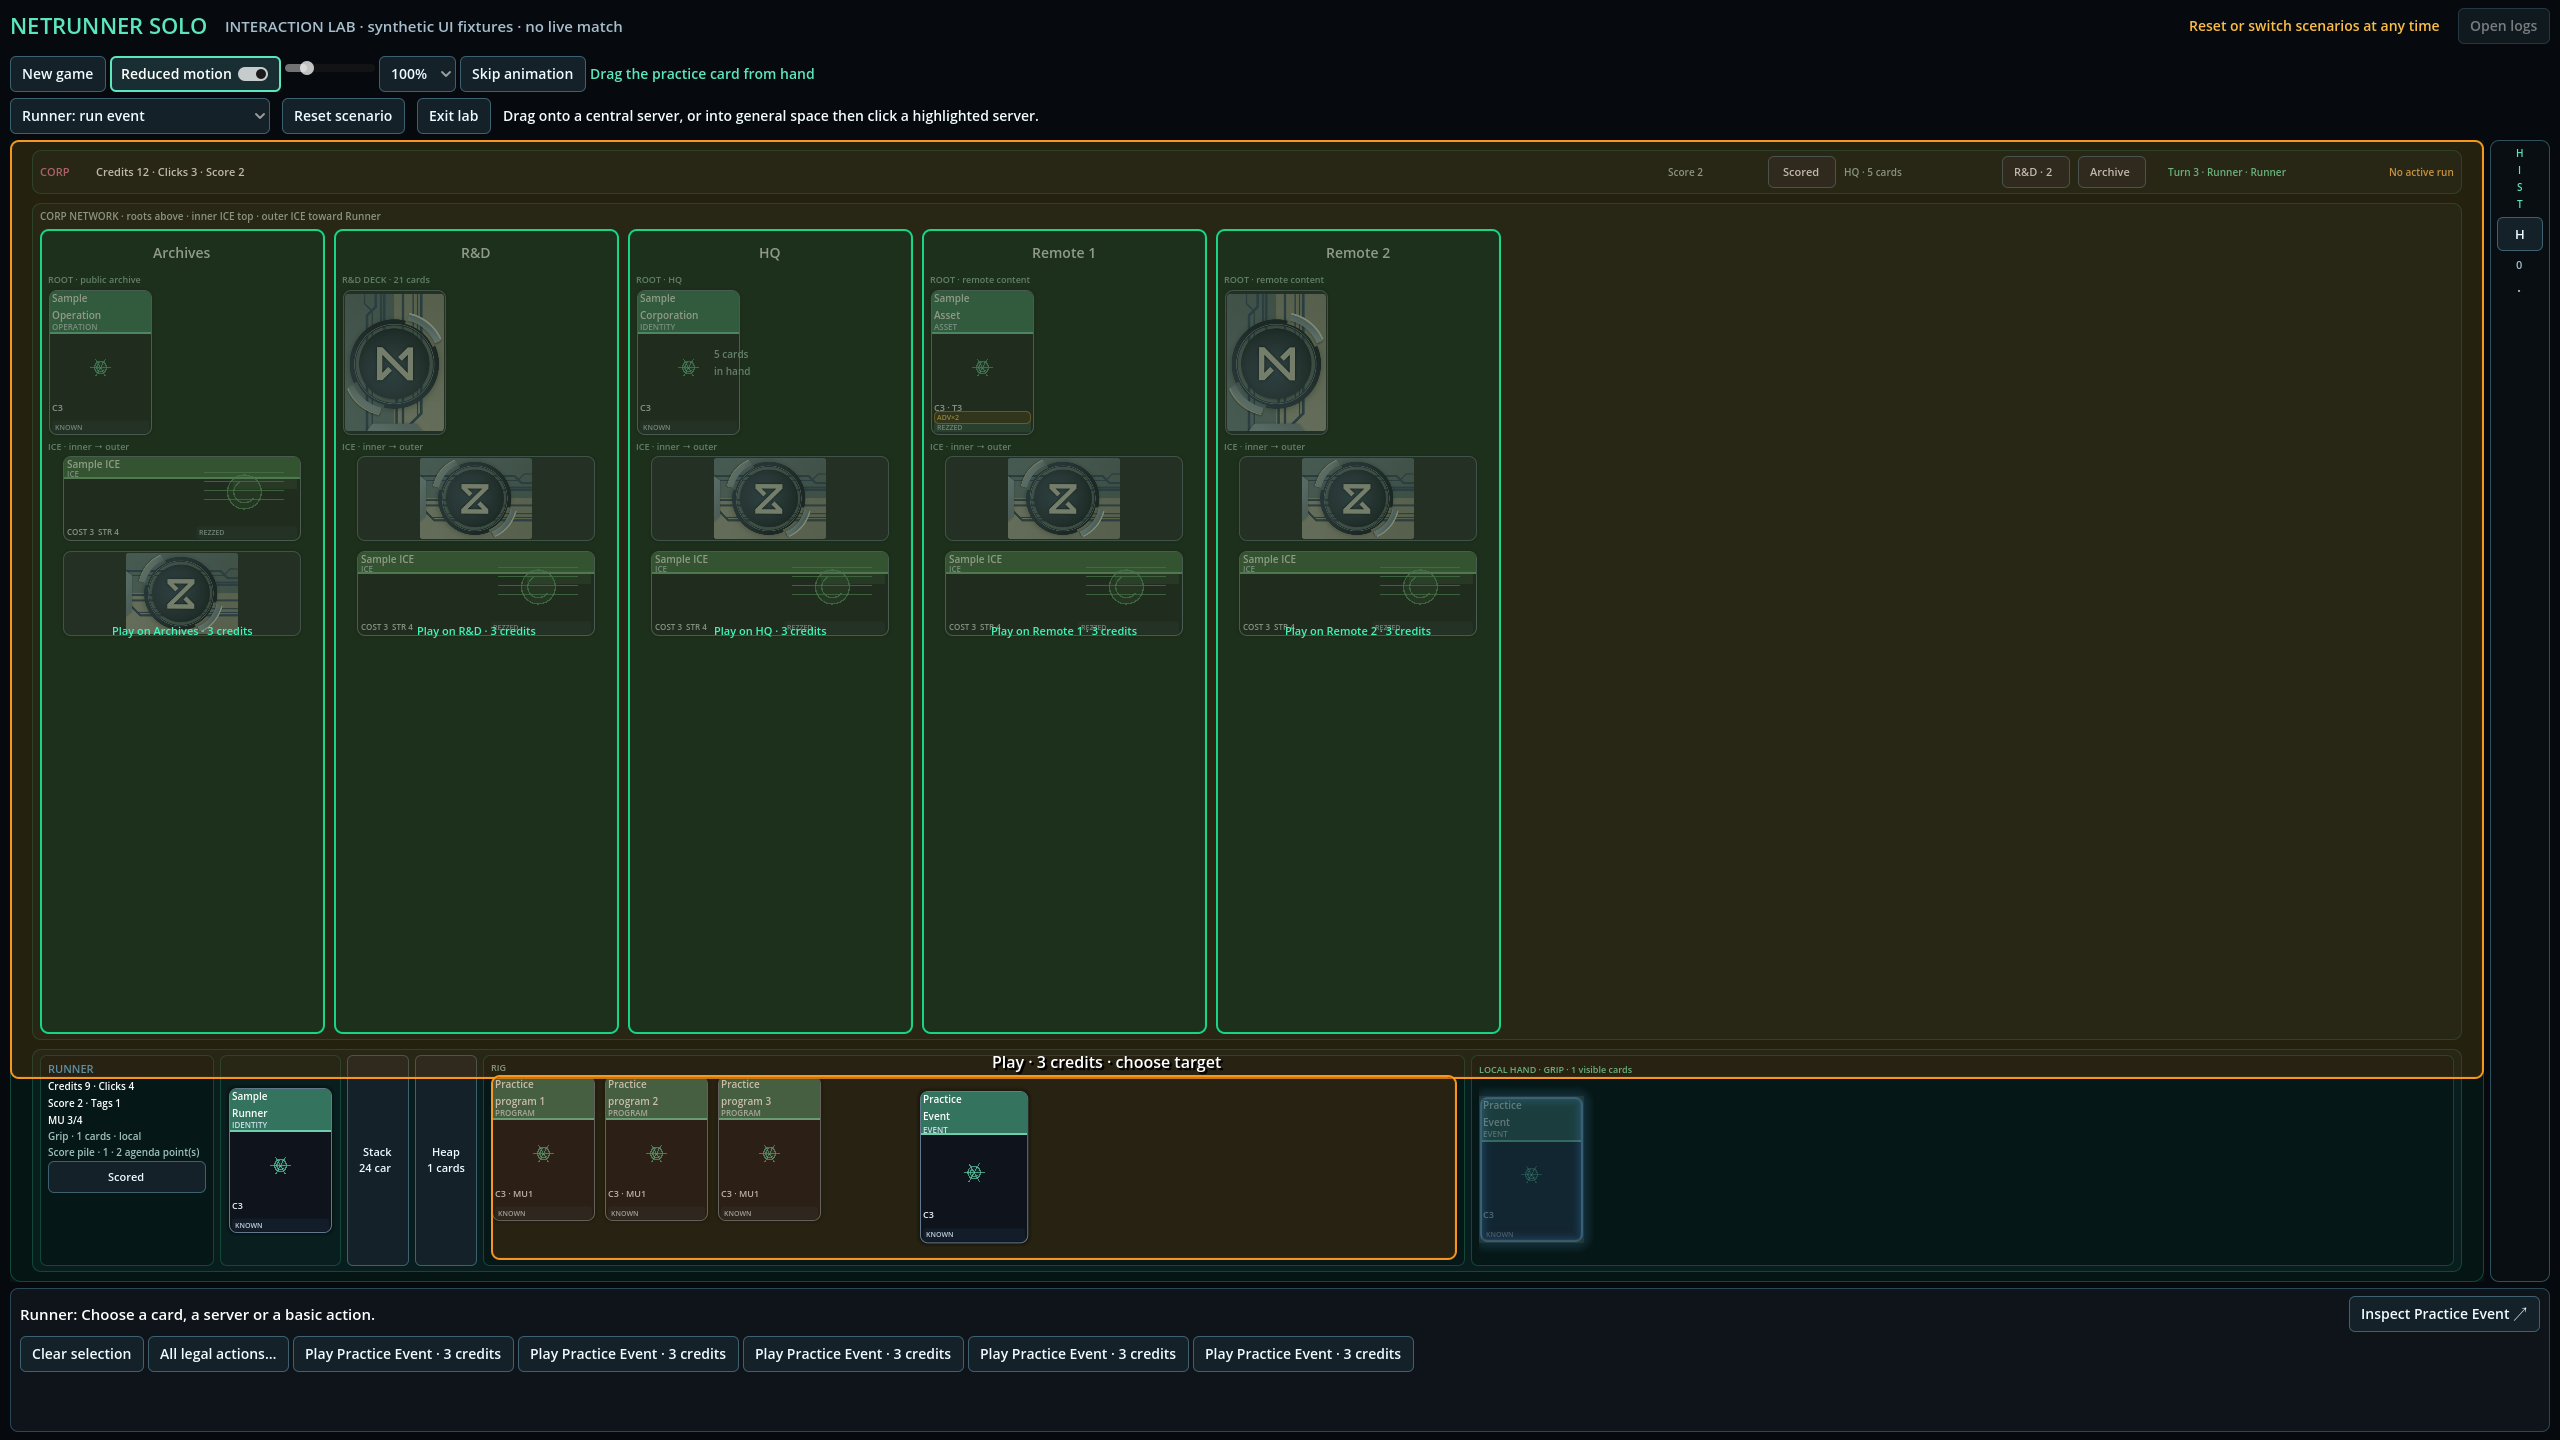
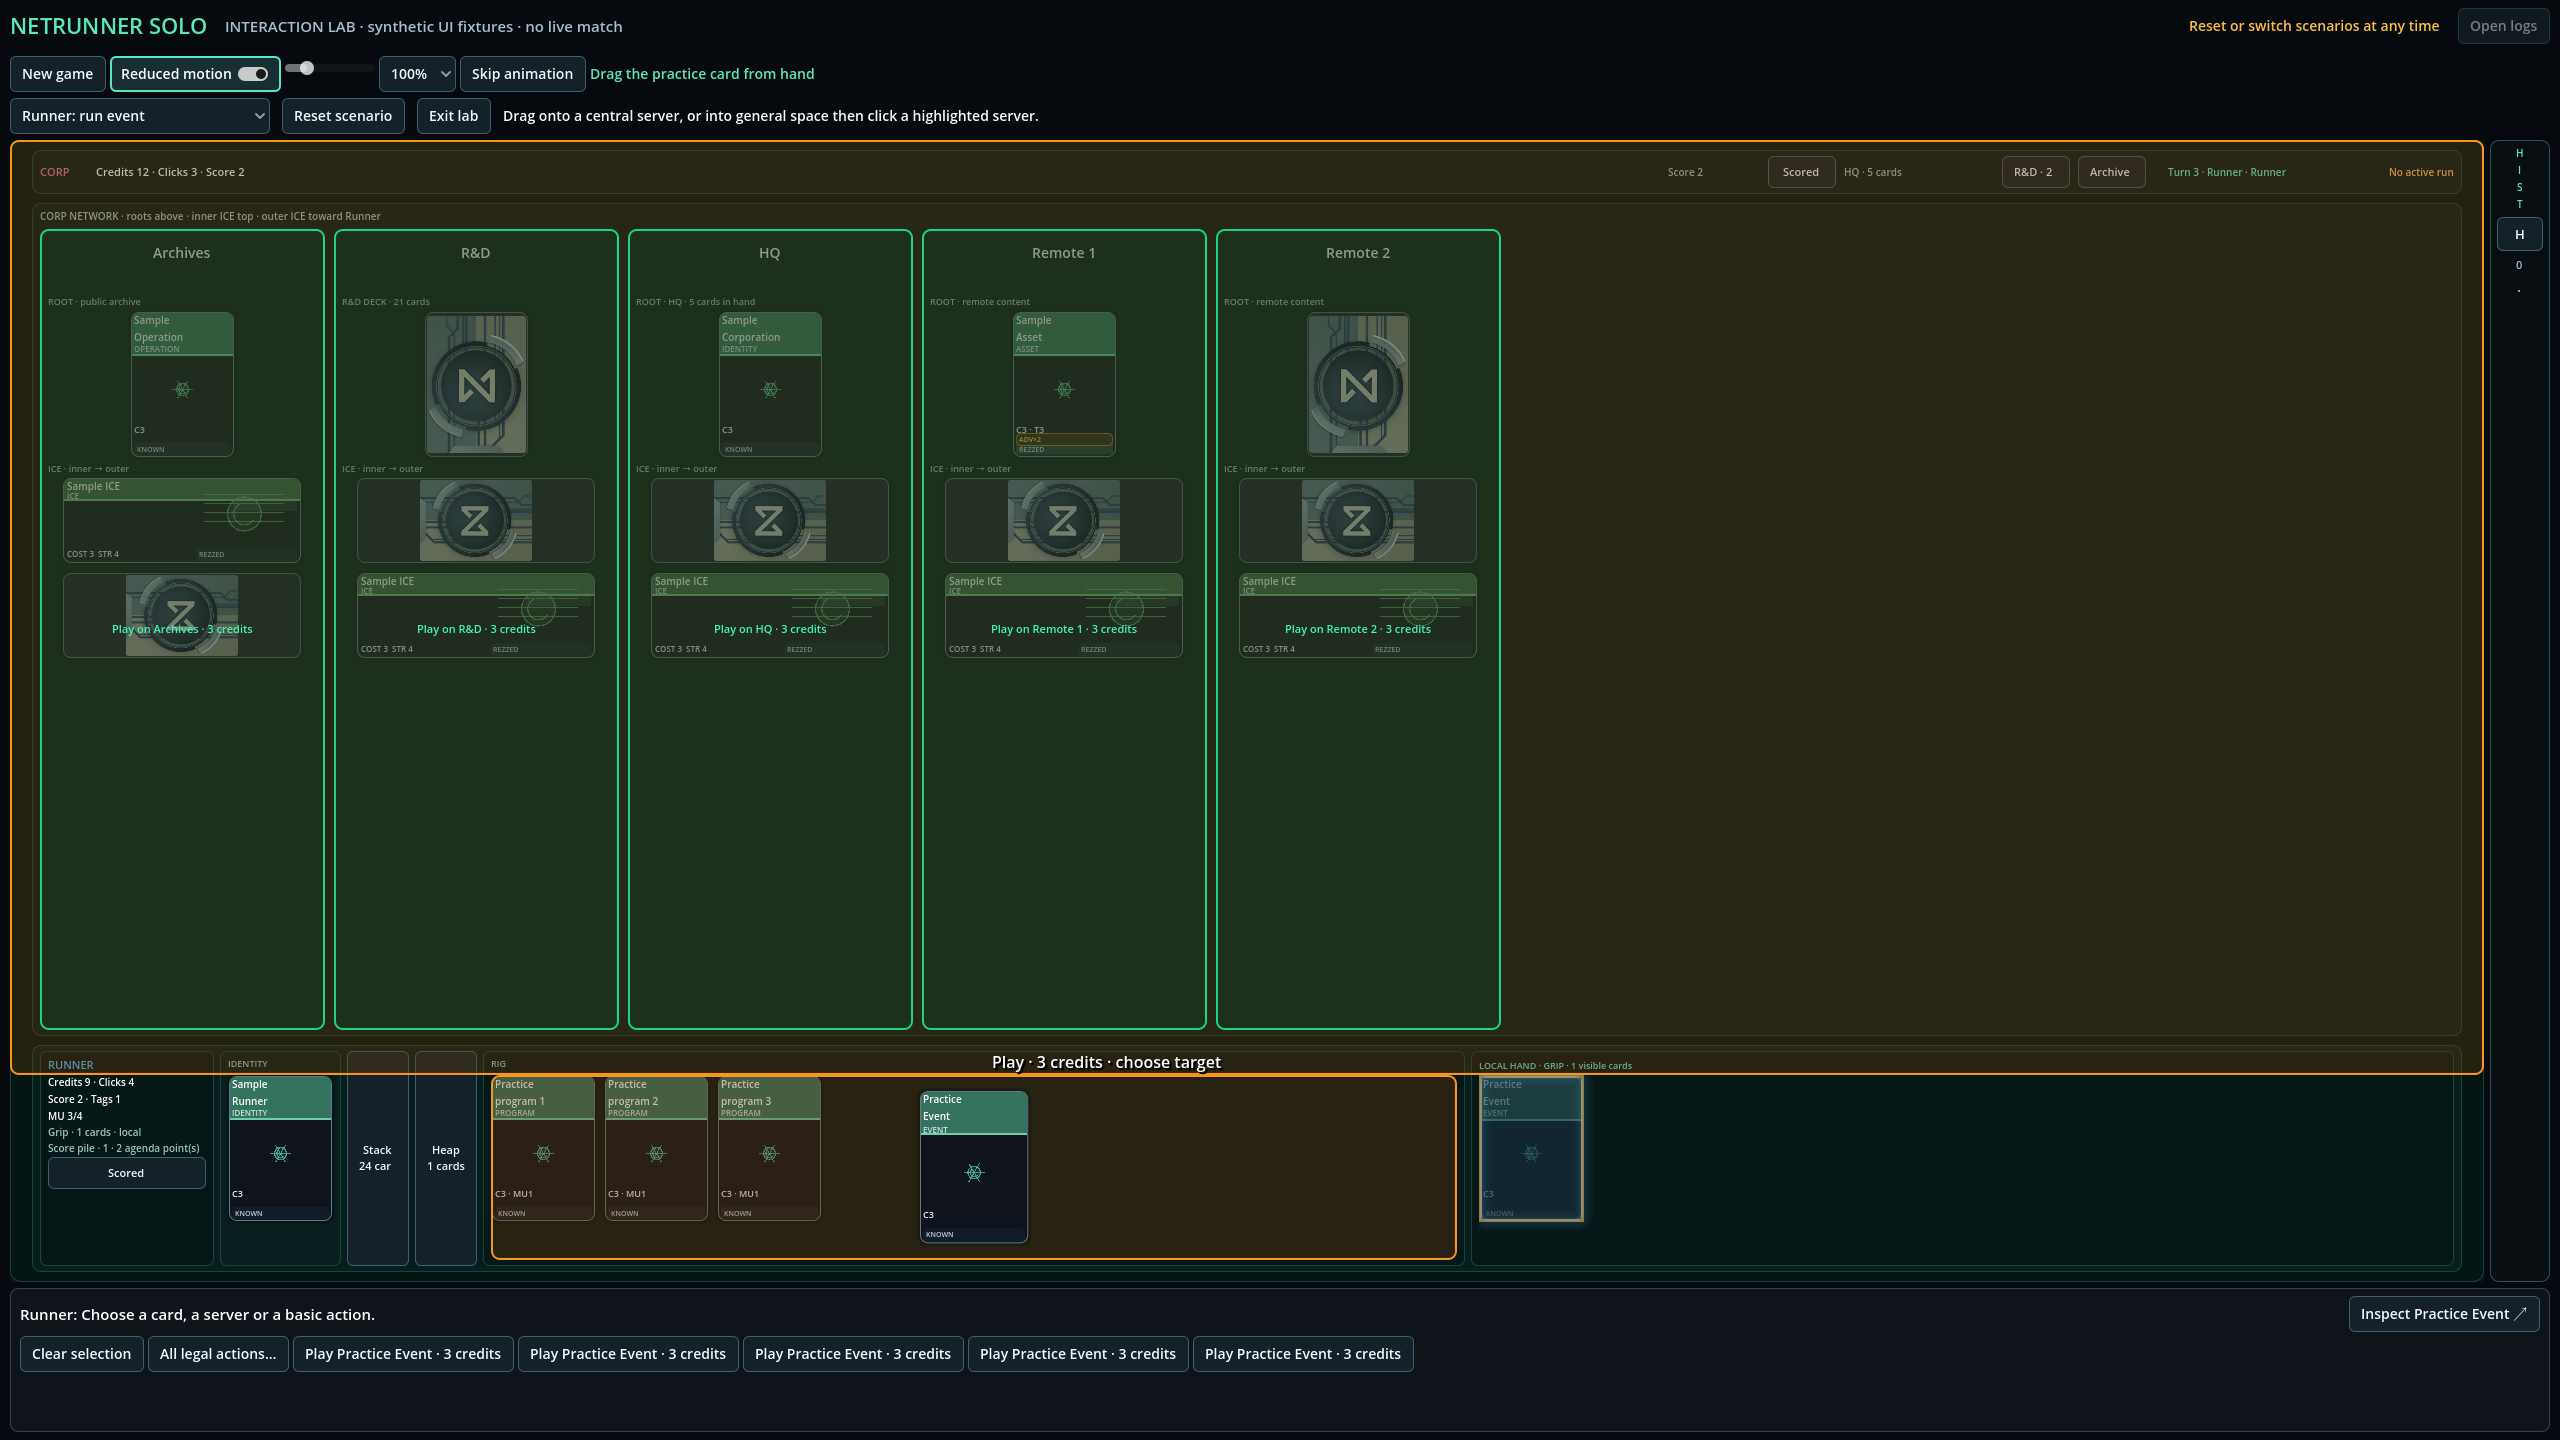
fix: align Runner card rows and Corp server cards

diff --git a/src/Netrunner.Godot/scenes/GameTableControl.cs b/src/Netrunner.Godot/scenes/GameTableControl.cs
@@ -55,7 +55,7 @@ public partial class GameTableControl : Control
 	private Label _corpHandCaption = null!;
 	private Label _runnerHandCaption = null!;
 	private Label _localHandCaption = null!;
-	private PanelContainer _runnerIdentitySlot = null!;
+	private MarginContainer _runnerIdentitySlot = null!;
 	private Label _tableHint = null!;
 	private Label _corpScoreLabel = null!;
 	private Label _runnerScoreLabel = null!;
@@ -376,7 +376,7 @@ public partial class GameTableControl : Control
 		_corpHandCaption = GetNodeOrNull<Label>("Surface/Margins/Layout/CorpStrip/Content/HQ")!;
[2 lines of base64/hex data omitted]
-		_runnerIdentitySlot = GetNodeOrNull<PanelContainer>("Surface/Margins/Layout/RunnerField/Content/Identity")!;
[1 lines of base64/hex data omitted]
 		_tableHint = GetNodeOrNull<Label>("Surface/Margins/Layout/Hint")!;
 		_corpScoreLabel = GetNodeOrNull<Label>("Surface/Margins/Layout/CorpStrip/Content/Score")!;
[1 lines of base64/hex data omitted]
@@ -536,6 +536,12 @@ public partial class GameTableControl : Control
 		lane.Panel.CustomMinimumSize = new Vector2(_boardLayout.LaneWidth, lane.Panel.CustomMinimumSize.Y);
 		lane.RootCards.AddThemeConstantOverride("separation", -Mathf.RoundToInt(_boardLayout.RootCardOverlap));
 		lane.IceCards.AddThemeConstantOverride("separation", Mathf.RoundToInt(_boardLayout.CardSeparation));
+		// Reserve matching gutters: the scrollbar must not move ICE off the
+		// root centerline when a server gains more cards or the window shrinks.
+		ScrollContainer scroll = lane.IceCards.GetParent<ScrollContainer>();
+		StyleBox panel = scroll.GetThemeStylebox("panel");
+		panel.ContentMarginLeft = scroll.GetVScrollBar().GetCombinedMinimumSize().X
+			+ scroll.GetThemeConstant("scrollbar_h_separation");
 	}
 
 	private void RefreshEditorPreview()
@@ -675,8 +681,9 @@ public partial class GameTableControl : Control
 				&& string.Equals(run.AttackedServerId, server.Id, StringComparison.Ordinal)
 				? $"ACTIVE RUN · {run.FocusLabel}"
 				: string.Empty;
-			lane.RunMarker.Visible = lane.RunMarker.Text.Length > 0;
-			if (lane.RunMarker.Visible && view.Run?.Encounter is { } encounter)
+			// Keep this row in every lane so entering a run never moves its cards.
+			lane.RunMarker.TooltipText = string.Empty;
+			if (lane.RunMarker.Text.Length > 0 && view.Run?.Encounter is { } encounter)
 			{
 				lane.RunMarker.Text = $"▶ {encounter.Ice?.Title ?? "Face-down ICE"} · {encounter.RemainingSubroutines} unbroken";
 				lane.RunMarker.TooltipText = $"Strength {encounter.EffectiveStrength ?? encounter.Ice?.Strength}\n"
@@ -688,7 +695,7 @@ public partial class GameTableControl : Control
 					? "ROOT · public archive"
 					: server.Kind == ServerKind.RAndD
 						? $"R&D DECK · {view.CorpDeck.Count} cards"
-							: "ROOT · HQ";
+							: $"ROOT · HQ · {view.CorpHand.Count} cards in hand";
 			lane.RootCaption.Visible = true;
 			lane.IceCaption.Visible = true;
 
@@ -699,7 +706,6 @@ public partial class GameTableControl : Control
 				server,
 				lane.RootCards,
 				server.Kind == ServerKind.Headquarters ? view.CorpIdentity : null,
-				server.Kind == ServerKind.Headquarters ? view.CorpHand.Count : null,
 				nextVisibleCards);
 			if (server.Kind == ServerKind.RAndD)
 			{
@@ -738,21 +744,12 @@ public partial class GameTableControl : Control
 		ServerViewModel server,
 		HBoxContainer rootCards,
 		CardViewModel? corpIdentity,
-		int? corpHandCount,
 		Dictionary<string, TableCardControl> nextVisibleCards)
 	{
 		int index = 0;
 		if (corpIdentity is not null)
 		{
 			EnsureCard("corp-identity", rootCards, corpIdentity, false, nextVisibleCards);
-		}
-		if (corpHandCount is { } handCount)
-		{
-			Label handLabel = MakeLabel($"{handCount} cards\nin hand", 10, MutedColor);
-			handLabel.CustomMinimumSize = new Vector2(78, 0);
-			handLabel.VerticalAlignment = VerticalAlignment.Center;
-			rootCards.AddChild(handLabel);
-			rootCards.MoveChild(handLabel, corpIdentity is not null ? 1 : 0);
 		}
 		foreach (CardViewModel? card in server.OrderedRoot)
 		{
@@ -781,10 +778,11 @@ public partial class GameTableControl : Control
 				Control stack = new()
 				{
 					CustomMinimumSize = HostedStackMinimumSize(),
+					SizeFlagsHorizontal = SizeFlags.ShrinkCenter,
 					MouseFilter = MouseFilterEnum.Ignore,
 				};
 				iceCards.AddChild(stack);
-				EnsureCard(slot, stack, card, true, nextVisibleCards);
+				EnsureCard(slot, stack, card, true, nextVisibleCards).Position = Vector2.Zero;
 				for (int index = 0; index < hosted.Length; index++)
 				{
 					TableCardControl attachment = EnsureCard(
@@ -935,7 +933,7 @@ public partial class GameTableControl : Control
 
 	private void RenderIdentity(
 		string slot,
-		PanelContainer parent,
+		Control parent,
 		CardViewModel? card,
 		bool isIce,
 		Dictionary<string, TableCardControl> nextVisibleCards)
@@ -1105,7 +1103,7 @@ public partial class GameTableControl : Control
 		CardAppearance? appearance = GD.Load<CardAppearance>(TableCardControl.DefaultAppearancePath);
 		Vector2 ice = (appearance?.IceSize ?? TableCardControl.IceCardSize) * new Vector2(1, layout.IceHeightScale);
 		Vector2 hosted = (appearance?.PortraitSize ?? TableCardControl.PortraitCardSize) * layout.HostedPortraitScale;
-		return new Vector2(layout.LaneWidth, Mathf.Max(ice.Y, hosted.Y) + layout.HostedCardOffset.Y + layout.HostedCardStep.Y);
+		return new Vector2(ice.X, Mathf.Max(ice.Y, hosted.Y) + layout.HostedCardOffset.Y + layout.HostedCardStep.Y);
 	}
 
 	private Vector2 RigSlotMinimumSize()

diff --git a/src/Netrunner.Godot/scenes/Main.CardTableSmoke.cs b/src/Netrunner.Godot/scenes/Main.CardTableSmoke.cs
@@ -199,6 +199,7 @@ public partial class Main
 					_matchHistory.SetExpanded(false);
 					await TableFrames(4);
 					AssertCentralServerPresentation(view);
+					AssertBoardCardAlignment(view);
 					await AssertHoverStable($"fixture-{size.X}-{side}");
 					Rect2 viewport = GetViewport().GetVisibleRect();
 					if (!viewport.Encloses(_tableActions.GetGlobalRect())
@@ -297,6 +298,7 @@ public partial class Main
 					};
 					RenderSnapshot(CreateSlice48Snapshot(activeRunView, activeRunView.Decision));
 					await TableFrames(3);
+					AssertBoardCardAlignment(activeRunView);
 					if (!SceneTreeContainsText(_gameTable, "▶")
 						&& !SceneTreeContainsText(_gameTable, "ACTIVE RUN")
 						&& !SceneTreeContainsText(_gameTable, "RUN ·"))
@@ -484,8 +486,41 @@ public partial class Main
 		if (_gameTable.GetServerDisplayName(hq.Id) != "HQ"
 			|| _gameTable.VisibleCards.Keys.Any(key => key.StartsWith($"slot:pile:{hq.Id}:", StringComparison.Ordinal)))
 			throw new InvalidOperationException("HQ has a remote label or decorative hand backs.");
-		if (!FindDescendants<Label>(_gameTable).Any(label => label.Text.Replace('\n', ' ') == $"{view.CorpHand.Count} cards in hand"))
+		if (!FindDescendants<Label>(_gameTable).Any(label => label.Text == $"ROOT · HQ · {view.CorpHand.Count} cards in hand"))
 			throw new InvalidOperationException("HQ public hand count is missing.");
+	}
+
+	private void AssertBoardCardAlignment(MatchViewModel view)
+	{
+		IEnumerable<CardViewModel> hand = view.Viewer == PlayerSide.Runner
+			? view.RunnerHand.VisibleCards : view.CorpHand.VisibleCards;
+		var runnerCards = hand.Concat(view.RunnerRig.Where(card => string.IsNullOrEmpty(card.HostCardId)))
+			.Concat(view.RunnerIdentity is { } identity ? [identity] : [])
+			.Where(card => _gameTable.VisibleCards.ContainsKey(card.Id))
+			.Select(card => _gameTable.VisibleCards[card.Id].GetGlobalRect()).ToArray();
+		if (runnerCards.Length > 1 && runnerCards.Max(rect => rect.Position.Y) - runnerCards.Min(rect => rect.Position.Y) > 1)
+			throw new InvalidOperationException($"Runner card tops are misaligned: {string.Join(", ", runnerCards.Select(rect => rect.Position.Y))}.");
+
+		HBoxContainer[] roots = _gameTable.FindChildren("RootCards", "HBoxContainer", true, false)
+			.Cast<HBoxContainer>().Where(row => row.IsVisibleInTree()).ToArray();
+		float? rootTop = null;
+		float? iceTop = null;
+		foreach (HBoxContainer root in roots)
+		{
+			ScrollContainer iceScroll = root.GetParent().GetNode<ScrollContainer>("IceScroll");
+			rootTop ??= root.GlobalPosition.Y;
+			iceTop ??= iceScroll.GlobalPosition.Y;
+			if (Mathf.Abs(root.GlobalPosition.Y - rootTop.Value) > 1 || Mathf.Abs(iceScroll.GlobalPosition.Y - iceTop.Value) > 1)
+				throw new InvalidOperationException("Server root/ICE rows shifted between lanes.");
+			Rect2[] cards = root.GetChildren().OfType<TableCardControl>().Where(card => card.Visible)
+				.Select(card => card.GetGlobalRect()).ToArray();
+			float center = root.GetGlobalRect().GetCenter().X;
+			if (cards.Length > 0 && Mathf.Abs((cards.Min(rect => rect.Position.X) + cards.Max(rect => rect.End.X)) / 2 - center) > 1)
+				throw new InvalidOperationException("Server root cards are off the lane centerline.");
+			foreach (TableCardControl ice in FindDescendants<TableCardControl>(iceScroll).Where(card => card.IsIce))
+				if (Mathf.Abs(ice.GetGlobalRect().GetCenter().X - center) > 1)
+					throw new InvalidOperationException($"ICE is off the root centerline: {ice.GetGlobalRect().GetCenter().X} vs {center}.");
+		}
 	}
 
 	private async Task SaveTableEvidence(string name)

diff --git a/src/Netrunner.Godot/scenes/Main.InteractionSmoke.cs b/src/Netrunner.Godot/scenes/Main.InteractionSmoke.cs
@@ -22,6 +22,7 @@ public partial class Main
 					_labScenarios!.Select(scenario);
 					ResetInteractionLab();
 					await TableFrames(4);
+					AssertBoardCardAlignment(_currentSnapshot!.View);
 					var projection = BoardInteractionProjector.Project(_currentSnapshot!.View);
 					RequireInteraction(projection.Sources.Count > 0, "Lab scenario has no draggable source.");
 					BoardInteractionSource source = projection.Sources.Single(s => s.CardId == "lab-hand");

diff --git a/docs/M4_11_UI_PROGRESS.md b/docs/M4_11_UI_PROGRESS.md
@@ -64,3 +64,17 @@ remain unchanged; passing automated fixtures does not declare them complete.
 - Screenshots refreshed. One screenshot run emitted a Godot `SwapGCHandleForType`
   exception while loading an action-button resource; a subsequent native run
   passed without errors. Log: `/tmp/m411-follow-native.log`.
+
+## 2026-09-12 — Board card alignment
+
+- Runner identity, rig and local hand cards share a top edge beneath matching
+  headings. The layout remains authored in the player-area and hand scenes.
+- Server root groups and ICE share a centerline, including hosted ICE and lanes
+  with scrollbars. Run-marker rows stay reserved so active runs do not shift cards.
+- HQ's public hand count appears in the root caption, leaving its identity centered.
+- Build and formatting passed. Native interaction checks passed all 15 scenarios
+  at 1080p and 1440p; headless table checks covered dense boards and active runs
+  from both seats at both resolutions. Editor resource/preview checks also passed.
+  Coordinate assertions cover Runner card tops, server rows, root groups and ICE.
+- Refreshed the interaction screenshots. Logs: `/tmp/card-alignment-native.log`,
+  `/tmp/card-alignment-table.log`, `/tmp/card-alignment-editor.log`.

diff --git a/docs/UI_EDITOR_GUIDE.md b/docs/UI_EDITOR_GUIDE.md
@@ -97,6 +97,13 @@ Edit the component scene to retain layout changes; do not save a synthetic
 board's generated runtime instances as production content. The Cards page
 provides authored sample instances for selecting cards in the Local tree.
 
+Runner identity, rig and hand use top-aligned card rows under 17-pixel headings.
+Keep the identity/rig captions in `PlayerArea.tscn` and the heading in
+`HandView.tscn` the same height when editing them. Server roots are centered in
+`ServerLane.tscn`; its run-marker row stays reserved even when empty. ICE scrolling
+reserves the scrollbar space, with a matching left gutter derived from the theme,
+so crowded servers keep the same centerline as their roots.
+
 The board resource owns its named geometry settings. Card appearance owns
 custom drawing and typography; component scenes own their fixed label layouts.
 The bottom status badge background is the **Status Badge Style** resource on
